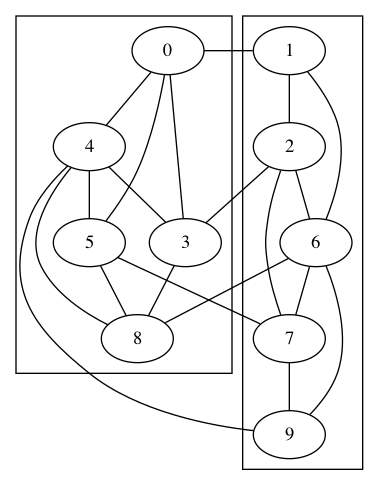
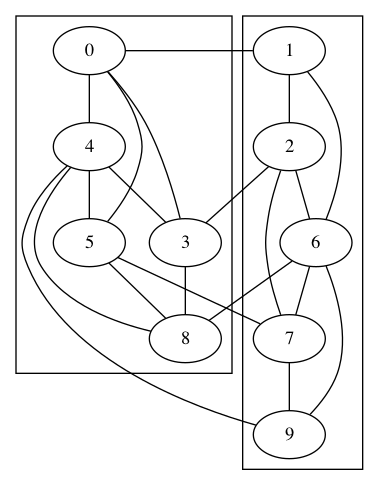
added weight edges to spectral_bisection and kernighan_lin

diff --git a/A2/spectral_bisection/spectral_bisection.py b/A2/spectral_bisection/spectral_bisection.py
@@ -1,116 +1,130 @@
-import argparse
+import subprocess
 
 import networkx as nx
 import numpy as np
-
-from draw_graphs import draw_graph, draw_graph_partitioned
+import pydot
 
 
 def import_nodes(filename):
     """
-    Import the nodes from the datafile specified by filename
+    Import the Graph from the datafile specified by filename and create the adjacency matrix.
+
+    :param filename: filename that contains the Graph
+    :type filename: str
+    :return: number of nodes, edges and adjacency_matrix
     """
     edges = list()
     nnodes = 0
 
-    # Open the file
-    with open(filename, "r") as datafile:
-        for line in datafile:
-            node1, node2 = line.split(',')
+    with open(filename, "r") as graph:
+        for line in graph:
+            node1, node2, weight = line.split(',')
             node1 = int(node1)
             node2 = int(node2)
-            edges.append({node1, node2})
+            weight = int(weight)
+            edges.append([node1, node2, weight])
             nnodes = max(nnodes, node1, node2)
 
     nnodes += 1  # We only had the maximum index of the nodes
-    # print("Imported {} nodes with {} edges from {}".format(nnodes, len(edges), filename))
-
     adjacency_matrix = np.zeros((nnodes, nnodes))  # Initiate empty matrix
 
     # Fill the matrix
-    for node1, node2 in edges:
+    for edge in edges:
         # The adjancency matrix is symmetric
-        adjacency_matrix[node1][node2] = 1
-        adjacency_matrix[node2][node1] = 1
+        adjacency_matrix[edge[0]][edge[1]] = edge[2]
+        adjacency_matrix[edge[1]][edge[0]] = edge[2]
 
     return nnodes, edges, adjacency_matrix
 
 
 def degree_nodes(adjacency_matrix, nnodes):
     """
-    Compute the degree of each node and returns the list of degrees
+    Compute the degree of each node and returns the list of degrees.
+
+    :param adjacency_matrix: adjacency matrix
+    :type adjacency_matrix: ndarray
+    :param nnodes: number of nodes
+    :type nnodes: int
+    :return: list of degrees
     """
-    d = []
+    degrees = []
     for i in range(nnodes):
-        d.append(sum([adjacency_matrix[i][j] for j in range(nnodes)]))
+        degrees.append(sum([adjacency_matrix[i][j] for j in range(nnodes)]))
 
-    return d
+    return degrees
 
 
-def spectral_bisection():
+def spectral_bisection(filename):
     """
-    The Spectral Bisection Algorithm
+    The Spectral Bisection Algorithm.
+
+    :param filename: filename that contains the Graph
+    :type filename: str
     """
-    nnodes, edges, adjacency_matrix = import_nodes(args.nodes_file)
+    nnodes, edges, adjacency_matrix = import_nodes(filename)
     # print("Adjacency matrix:\n", adjacency_matrix)
 
-    # print("Computing the degree of each node...")
     degrees = degree_nodes(adjacency_matrix, nnodes)
-    # print("Degrees: ", degrees)
 
     laplacian_matrix = np.diag(degrees) - adjacency_matrix
     print("Laplacian matrix:\n", laplacian_matrix)
 
-    # print("Computing the eigenvectors and eigenvalues...")
     eigenvalues, eigenvectors = np.linalg.eigh(laplacian_matrix)
-    # print("Found eigenvalues: ", eigenvalues)
 
     # Index of the second eigenvalue
     index_fnzev = np.argsort(eigenvalues)[1]
-    # print("Eigenvector for #{} eigenvalue ({}): ".format(index_fnzev, eigenvalues[index_fnzev]),
-    #       eigenvectors[:, index_fnzev])
 
     # Partition on the sign of the eigenvector's coordinates
     partition = [val >= 0 for val in eigenvectors[:, index_fnzev]]
 
     # Compute the edges in between
-    nodes_in_A = [nodeA for (nodeA, nodeCommunity) in enumerate(partition) if nodeCommunity]
-    nodes_in_B = [nodeB for (nodeB, nodeCommunity) in enumerate(partition) if not nodeCommunity]
+    partition_A = [nodeA for (nodeA, nodeCommunity) in enumerate(partition) if nodeCommunity]
+    partition_B = [nodeB for (nodeB, nodeCommunity) in enumerate(partition) if not nodeCommunity]
 
     edges_in_between = []
     for edge in edges:
-        node1, node2 = edge
-        if node1 in nodes_in_A and node2 in nodes_in_B \
-                or node1 in nodes_in_B and node2 in nodes_in_A:
+        node1, node2, weight = edge
+        if node1 in partition_A and node2 in partition_B \
+                or node1 in partition_B and node2 in partition_A:
             edges_in_between.append(edge)
 
-    # Display the results
-    # print("Partition computed: nnodesA={} nnodesB={} (total {}), {} edges in between".format(
-    #     len(nodes_in_A),
-    #     len(nodes_in_B),
-    #     nnodes,
-    #     len(edges_in_between),
-    # ))
+    return set(partition_A), set(partition_B), adjacency_matrix
 
-    return set(nodes_in_A), set(nodes_in_B)
+
+def create_cluster(name, Graph, partition):
+    c = pydot.Cluster(name)  # cluster name
+    for i in range(len(partition) - 1):
+        e = pydot.Edge(pydot.Node(partition[i]), pydot.Node(partition[i + 1]))  # new edge
+        c.add_edge(e)
+
+    Graph.add_subgraph(c)
+
+
+def main(filename):
+    """
+    The Main run function.
+
+    :param filename: filename that contains the Graph
+    :type filename: strph without the partition
+    """
+
+    # Spectral Bisection algorithm
+    partition_A, partition_B, adjacency_matrix = spectral_bisection(filename)
+
+    # print graph partition
+    print("Partition A: {}".format(partition_A))
+    print("Partition B: {}".format(partition_B))
+
+    # draw graph partition
+    Graph = nx.from_numpy_matrix(adjacency_matrix)  # create nx.Graph from adjacency matrix
+    newGraph = nx.drawing.nx_pydot.to_pydot(Graph)  # convert nx.Graph to dot format
+    create_cluster('A', newGraph, list(partition_A))
+    create_cluster('B', newGraph, list(partition_B))
+    newGraph.write('sb.dot')
+    subprocess.call(["dot", "-Tpng", "sb.dot", "-o", "sb.png"])
 
 
 if __name__ == '__main__':
-    parser = argparse.ArgumentParser(description="Compute the partition of a graph using the Spectral Partition "
-                                                 "Algorithm.")
-
-    parser.add_argument('--nodes-file', '-f', help="the file containing the data",
-                        default="../dataset/data_no_edges.csv")
-    # parser.add_argument('--output-file', '-o', help='the filename of the communities PNG graph to be written')
-
-    args = parser.parse_args()
-
-    # Run the algorithm
-    A, B = spectral_bisection()
-    print("Partition A: {}".format(A))
-    print("Partition B: {}".format(B))
-
-    # drawing results
-    # G = nx.read_edgelist("../dataset/data_no_edges.csv", delimiter=",")
-    # draw_graph(G, False)
-    # draw_graph_partitioned(G, A, B)
+    datafile = "../dataset/data_edges.csv"
+    # datafile = "../dataset/data_no_edges.csv"
+    main(datafile)

diff --git a/A2/kernighan_lin/kl.py b/A2/kernighan_lin/kl.py
@@ -1,8 +1,12 @@
+import subprocess
+
 import networkx as nx
 
 from collections import defaultdict
 from itertools import accumulate, islice
 from operator import itemgetter
+
+import pydot
 from networkx.algorithms.community.community_utils import is_partition
 from networkx.utils import not_implemented_for, py_random_state
 
@@ -158,3 +162,42 @@ def kernighan_lin_bisection(graph, partition=None, max_iter=10, weight='weight',
         B -= bnodes
 
     return A, B
+
+
+def create_cluster(name, Graph, partition):
+    c = pydot.Cluster(name)  # cluster name
+    for i in range(len(partition) - 1):
+        e = pydot.Edge(pydot.Node(partition[i]), pydot.Node(partition[i + 1]))  # new edge
+        c.add_edge(e)
+
+    Graph.add_subgraph(c)
+
+
+def main(Graph):
+    """
+
+    :param Graph: initial graph without the partition
+    :type Graph: nx.Graph
+    """
+
+    # kernighan_lin algorithm
+    partition_A, partition_B = kernighan_lin_bisection(Graph)
+
+    # print graph partition
+    print("Partition A: {}".format(partition_A))
+    print("Partition B: {}".format(partition_B))
+
+    # draw graph partition
+    newGraph = nx.drawing.nx_pydot.to_pydot(Graph)  # convert nx.Graph to dot format
+    create_cluster('A', newGraph, list(partition_A))
+    create_cluster('B', newGraph, list(partition_B))
+    newGraph.write('kl.dot')
+    subprocess.call(["dot", "-Tpng", "kl.dot", "-o", "kl.png"])
+
+
+if __name__ == '__main__':
+    G = nx.read_edgelist("../dataset/data_edges.csv", delimiter=",", data=[("weight", int)], nodetype=int)
+    main(G)
+
+    # G2 = nx.read_edgelist("../dataset/data_no_edges.csv", delimiter=",", nodetype=int)
+    # main(G2)
